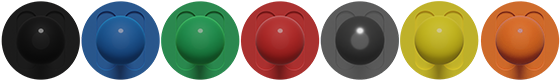
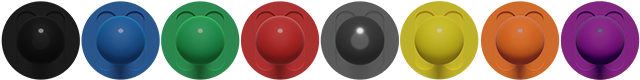
prepare 8th car

diff --git a/heat.js b/heat.js
@@ -3042,7 +3042,7 @@ var PlayerTable = /** @class */ (function () {
         this.constructorId = constructor.id;
         this.currentPlayer = this.playerId == this.game.getPlayerId();
         this.currentGear = constructor.gear;
-        var html = "\n        <div id=\"player-table-".concat(this.playerId, "\" class=\"player-table\" style=\"--player-color: #").concat(player.color, "; --personal-card-background-y: ").concat(constructor.id * 100 / 6, "%;\">\n            <div id=\"player-table-").concat(this.playerId, "-name\" class=\"name-wrapper\">").concat(player.name, "</div>\n        ");
+        var html = "\n        <div id=\"player-table-".concat(this.playerId, "\" class=\"player-table\" style=\"--player-color: #").concat(player.color, "; --personal-card-background-y: ").concat(constructor.id * 100 / 7, "%;\">\n            <div id=\"player-table-").concat(this.playerId, "-name\" class=\"name-wrapper\">").concat(player.name, "</div>\n        ");
         if (this.currentPlayer) {
             html += "\n            <div class=\"block-with-text hand-wrapper\">\n                <div class=\"block-label\">".concat(_('Your hand'), "</div>\n                <div id=\"player-table-").concat(this.playerId, "-hand\" class=\"hand cards\"></div>\n            </div>");
         }
@@ -3513,7 +3513,7 @@ var ACTION_TIMER_DURATION = 5;
 var LOCAL_STORAGE_ZOOM_KEY = 'Heat-zoom';
 var LOCAL_STORAGE_CIRCUIT_ZOOM_KEY = 'Heat-circuit-zoom';
 var LOCAL_STORAGE_JUMP_TO_FOLDED_KEY = 'Heat-jump-to-folded';
-var CONSTRUCTORS_COLORS = ['12151a', '376bbe', '26a54e', 'e52927', '979797', 'face0d', 'f37321']; // copy of gameinfos
+var CONSTRUCTORS_COLORS = ['12151a', '376bbe', '26a54e', 'e52927', '979797', 'face0d', 'f37321', '811b8f']; // copy of gameinfos
 var SYMBOLS_WITH_POSSIBLE_HALF_USAGE = ['cooldown', 'reduce', 'scrap'];
 var HAND_CARD_TYPE_FOR_EFFECT = {
     reduce: 'stress',
@@ -3710,7 +3710,7 @@ var Heat = /** @class */ (function () {
         var _a;
         if (!this.market) {
             var constructor = Object.values(this.gamedatas.constructors).find(function (constructor) { return constructor.pId == _this.getPlayerId(); });
-            document.getElementById('top').insertAdjacentHTML('afterbegin', "\n                <div id=\"market\" style=\"--personal-card-background-y: ".concat((((_a = constructor === null || constructor === void 0 ? void 0 : constructor.id) !== null && _a !== void 0 ? _a : 0) * 100) / 6, "%;\"></div>\n            "));
+            document.getElementById('top').insertAdjacentHTML('afterbegin', "\n                <div id=\"market\" style=\"--personal-card-background-y: ".concat((((_a = constructor === null || constructor === void 0 ? void 0 : constructor.id) !== null && _a !== void 0 ? _a : 0) * 100) / 7, "%;\"></div>\n            "));
             this.market = new LineStock(this.cardsManager, document.getElementById("market"));
             this.market.onSelectionChange = function (selection) { return _this.onMarketSelectionChange(selection); };
         }
@@ -3807,7 +3807,7 @@ var Heat = /** @class */ (function () {
         var _a;
         if (!this.market) {
             var constructor = Object.values(this.gamedatas.constructors).find(function (constructor) { return constructor.pId == _this.getPlayerId(); });
-            document.getElementById('top').insertAdjacentHTML('afterbegin', "\n                <div id=\"market\" style=\"--personal-card-background-y: ".concat((((_a = constructor === null || constructor === void 0 ? void 0 : constructor.id) !== null && _a !== void 0 ? _a : 0) * 100) / 6, "%;\"></div>\n            "));
+            document.getElementById('top').insertAdjacentHTML('afterbegin', "\n                <div id=\"market\" style=\"--personal-card-background-y: ".concat((((_a = constructor === null || constructor === void 0 ? void 0 : constructor.id) !== null && _a !== void 0 ? _a : 0) * 100) / 7, "%;\"></div>\n            "));
             this.market = new LineStock(this.cardsManager, document.getElementById("market"));
             this.market.onSelectionChange = function (selection) {
                 document.getElementById("actSalvage_button").classList.toggle('disabled', selection.length > args.n);
@@ -3822,7 +3822,7 @@ var Heat = /** @class */ (function () {
         var _a;
         if (!this.market) {
             var constructor = Object.values(this.gamedatas.constructors).find(function (constructor) { return constructor.pId == _this.getPlayerId(); });
-            document.getElementById('top').insertAdjacentHTML('afterbegin', "\n                <div id=\"market\" style=\"--personal-card-background-y: ".concat((((_a = constructor === null || constructor === void 0 ? void 0 : constructor.id) !== null && _a !== void 0 ? _a : 0) * 100) / 6, "%;\"></div>\n            "));
+            document.getElementById('top').insertAdjacentHTML('afterbegin', "\n                <div id=\"market\" style=\"--personal-card-background-y: ".concat((((_a = constructor === null || constructor === void 0 ? void 0 : constructor.id) !== null && _a !== void 0 ? _a : 0) * 100) / 7, "%;\"></div>\n            "));
             this.market = new LineStock(this.cardsManager, document.getElementById("market"));
         }
         // negative ids to not mess with deck pile
@@ -5435,7 +5435,7 @@ var Heat = /** @class */ (function () {
         var _this = this;
         var _a, _b;
         var constructorId = (_a = args.constructor_id) !== null && _a !== void 0 ? _a : (_b = Object.values(this.gamedatas.constructors).find(function (constructor) { return constructor.pId == _this.getPlayerId(); })) === null || _b === void 0 ? void 0 : _b.id;
-        return "<div class=\"log-card-image\" style=\"--personal-card-background-y: ".concat((constructorId * 100) / 6, "%;\" data-symbols=\"").concat(card.type < 100 ? Object.keys(card.symbols).length : 0, "\">").concat(this.cardsManager.getHtml(card), "</div>");
+        return "<div class=\"log-card-image\" style=\"--personal-card-background-y: ".concat((constructorId * 100) / 7, "%;\" data-symbols=\"").concat(card.type < 100 ? Object.keys(card.symbols).length : 0, "\">").concat(this.cardsManager.getHtml(card), "</div>");
     };
     Heat.prototype.cardsImagesHtml = function (cards, args) {
         var _this = this;

diff --git a/heat.css b/heat.css
@@ -533,7 +533,7 @@ height: 241px; */
 .personal-card .card-sides .card-side {
   border-radius: 8px;
   background-image: url("img/personal-cards.jpg");
-  background-size: auto 700%;
+  background-size: auto 800%;
 }
 .personal-card .card-sides .card-side > * {
   pointer-events: all !important;
@@ -661,7 +661,7 @@ height: 241px; */
   height: 48px;
   background: url("img/legend-icons.png");
   background-size: 100% auto;
-  background-position-y: calc(var(--color) * 100% / 6);
+  background-position-y: calc(var(--color) * 100% / 7);
   color: white;
   text-shadow: 0 0 1px black, 0 0 2px black, 0 0 3px black;
   text-align: center;
@@ -852,8 +852,8 @@ height: 241px; */
   height: 34px;
   z-index: 3;
   background: url("img/cars.png");
-  background-position-y: calc(var(--constructor-id) * 100% / 6);
-  background-size: 200% 700%;
+  background-position-y: calc(var(--constructor-id) * 100% / 7);
+  background-size: 200% 800%;
   transform: translateX(var(--x)) translateY(var(--y)) rotate(var(--r));
   transform-origin: center center;
 }
@@ -1079,7 +1079,7 @@ height: 241px; */
 .legend_avatar {
   background: url("img/legend-icons.png");
   background-size: 100% auto;
-  background-position-y: calc(var(--constructor-id) * 100% / 6);
+  background-position-y: calc(var(--constructor-id) * 100% / 7);
 }
 
 .player-table {
@@ -1134,6 +1134,9 @@ height: 241px; */
 }
 .player-table .player-board[data-color=f37321] {
   background-image: url("img/mats/player-board-f37321.jpg");
+}
+.player-table .player-board[data-color="811b8f"] {
+  background-image: url("img/mats/player-board-811b8f.jpg");
 }
 .player-table .player-board .bga-cards_deck-counter {
   --bga-cards-deck-counter-size: 40px;
@@ -1195,21 +1198,24 @@ height: 241px; */
   background-position-x: 0%;
 }
 .player-table .player-board .gear[data-color="376bbe"] {
-  background-position-x: 16.6666666667%;
+  background-position-x: 14.2857142857%;
 }
 .player-table .player-board .gear[data-color="26a54e"] {
-  background-position-x: 33.3333333333%;
+  background-position-x: 28.5714285714%;
 }
 .player-table .player-board .gear[data-color=e52927] {
-  background-position-x: 50%;
+  background-position-x: 42.8571428571%;
 }
 .player-table .player-board .gear[data-color="979797"] {
-  background-position-x: 66.6666666667%;
+  background-position-x: 57.1428571429%;
 }
 .player-table .player-board .gear[data-color=face0d] {
-  background-position-x: 83.3333333333%;
+  background-position-x: 71.4285714286%;
 }
 .player-table .player-board .gear[data-color=f37321] {
+  background-position-x: 85.7142857143%;
+}
+.player-table .player-board .gear[data-color="811b8f"] {
   background-position-x: 100%;
 }
 .player-table .player-board .gear[data-color="12151a"] {
@@ -1668,7 +1674,7 @@ html, .mode_3d #game_play_area_background {
 .constructor-avatar.legend {
   background: url("img/legend-icons.png");
   background-size: 100% auto;
-  background-position-y: calc(var(--constructor-id) * 100% / 6);
+  background-position-y: calc(var(--constructor-id) * 100% / 7);
 }
 .constructor-avatar.player {
   border-radius: 50%;

diff --git a/src/heat.ts b/src/heat.ts
@@ -15,7 +15,7 @@ const LOCAL_STORAGE_ZOOM_KEY = 'Heat-zoom';
 const LOCAL_STORAGE_CIRCUIT_ZOOM_KEY = 'Heat-circuit-zoom';
 const LOCAL_STORAGE_JUMP_TO_FOLDED_KEY = 'Heat-jump-to-folded';
 
-const CONSTRUCTORS_COLORS = ['12151a', '376bbe', '26a54e', 'e52927', '979797', 'face0d', 'f37321']; // copy of gameinfos
+const CONSTRUCTORS_COLORS = ['12151a', '376bbe', '26a54e', 'e52927', '979797', 'face0d', 'f37321', '811b8f']; // copy of gameinfos
 
 const SYMBOLS_WITH_POSSIBLE_HALF_USAGE = ['cooldown', 'reduce', 'scrap'];
 const HAND_CARD_TYPE_FOR_EFFECT = {
@@ -272,7 +272,7 @@ class Heat implements HeatGame {
       document.getElementById('top').insertAdjacentHTML(
         'afterbegin',
         `
-                <div id="market" style="--personal-card-background-y: ${((constructor?.id ?? 0) * 100) / 6}%;"></div>
+                <div id="market" style="--personal-card-background-y: ${((constructor?.id ?? 0) * 100) / 7}%;"></div>
             `
       );
       this.market = new LineStock<Card>(this.cardsManager, document.getElementById(`market`));
@@ -392,7 +392,7 @@ class Heat implements HeatGame {
       document.getElementById('top').insertAdjacentHTML(
         'afterbegin',
         `
-                <div id="market" style="--personal-card-background-y: ${((constructor?.id ?? 0) * 100) / 6}%;"></div>
+                <div id="market" style="--personal-card-background-y: ${((constructor?.id ?? 0) * 100) / 7}%;"></div>
             `
       );
       this.market = new LineStock<Card>(this.cardsManager, document.getElementById(`market`));
@@ -412,7 +412,7 @@ class Heat implements HeatGame {
       document.getElementById('top').insertAdjacentHTML(
         'afterbegin',
         `
-                <div id="market" style="--personal-card-background-y: ${((constructor?.id ?? 0) * 100) / 6}%;"></div>
+                <div id="market" style="--personal-card-background-y: ${((constructor?.id ?? 0) * 100) / 7}%;"></div>
             `
       );
       this.market = new LineStock<Card>(this.cardsManager, document.getElementById(`market`));
@@ -2367,7 +2367,7 @@ class Heat implements HeatGame {
     const constructorId =
       args.constructor_id ??
       Object.values(this.gamedatas.constructors).find((constructor) => constructor.pId == this.getPlayerId())?.id;
-    return `<div class="log-card-image" style="--personal-card-background-y: ${(constructorId * 100) / 6}%;" data-symbols="${card.type < 100 ? Object.keys(card.symbols).length : 0}">${this.cardsManager.getHtml(card)}</div>`;
+    return `<div class="log-card-image" style="--personal-card-background-y: ${(constructorId * 100) / 7}%;" data-symbols="${card.type < 100 ? Object.keys(card.symbols).length : 0}">${this.cardsManager.getHtml(card)}</div>`;
   }
 
   private cardsImagesHtml(cards: Card[], args: any) {

diff --git a/src/heat.scss b/src/heat.scss
@@ -1,4 +1,4 @@
-$playerColors: '12151a', '376bbe', '26a54e', 'e52927', '979797', 'face0d', 'f37321';
+$playerColors: '12151a', '376bbe', '26a54e', 'e52927', '979797', 'face0d', 'f37321', '811b8f';
 
 @import '../node_modules/bga-help/bga-help';
 @import '../node_modules/bga-zoom/bga-zoom';
@@ -182,7 +182,7 @@ html, .mode_3d #game_play_area_background {
   &.legend {  
     background: url('img/legend-icons.png');
     background-size: 100% auto;
-    background-position-y: calc(var(--constructor-id) * 100% / 6);
+    background-position-y: calc(var(--constructor-id) * 100% / 7);
   }
 
   &.player {

diff --git a/src/player-table.ts b/src/player-table.ts
@@ -73,7 +73,7 @@ class PlayerTable {
         this.currentGear = constructor.gear;
 
         let html = `
-        <div id="player-table-${this.playerId}" class="player-table" style="--player-color: #${player.color}; --personal-card-background-y: ${constructor.id * 100 / 6}%;">
+        <div id="player-table-${this.playerId}" class="player-table" style="--player-color: #${player.color}; --personal-card-background-y: ${constructor.id * 100 / 7}%;">
             <div id="player-table-${this.playerId}-name" class="name-wrapper">${player.name}</div>
         `;
         if (this.currentPlayer) {

diff --git a/src/_legend-cards.scss b/src/_legend-cards.scss
@@ -34,7 +34,7 @@
                     height: 48px;
                     background: url('img/legend-icons.png');
                     background-size: 100% auto;
-                    background-position-y: calc(var(--color) * 100% / 6);
+                    background-position-y: calc(var(--color) * 100% / 7);
                     color: white;
                     text-shadow: 0 0 1px black, 0 0 2px black, 0 0 3px black;
                     text-align: center;    

diff --git a/src/_table-center.scss b/src/_table-center.scss
@@ -53,8 +53,8 @@
   height: 34px;
   z-index: 3;
   background: url("img/cars.png");
-  background-position-y: calc(var(--constructor-id) * 100% / 6);
-  background-size: 200% 700%;
+  background-position-y: calc(var(--constructor-id) * 100% / 7);
+  background-size: 200% 800%;
   transform: translateX(var(--x)) translateY(var(--y)) rotate(var(--r));
   transform-origin: center center;
 

diff --git a/src/_cards.scss b/src/_cards.scss
@@ -15,7 +15,7 @@
         .card-side {
             border-radius: 8px;
             background-image: url('img/personal-cards.jpg');  
-            background-size: auto 700%; 
+            background-size: auto 800%; 
 
             &>* {
                 pointer-events: all !important;

diff --git a/src/_player-table.scss b/src/_player-table.scss
@@ -100,7 +100,7 @@
       @each $playerColor in $playerColors {
         $i: index($playerColors, $playerColor) - 1;
         &[data-color="#{$playerColor}"] { 
-          background-position-x: #{$i * 100% / 6};
+          background-position-x: #{$i * 100% / 7};
         }
       }
   

diff --git a/src/_playerboards.scss b/src/_playerboards.scss
@@ -67,5 +67,5 @@
 .legend_avatar {
   background: url('img/legend-icons.png');
   background-size: 100% auto;
-  background-position-y: calc(var(--constructor-id) * 100% / 6);
+  background-position-y: calc(var(--constructor-id) * 100% / 7);
 }

diff --git a/gameinfos.inc.php b/gameinfos.inc.php
@@ -27,7 +27,7 @@ $gameinfos = [
   'bgg_id' => 366013,
 
   // Players configuration that can be played (ex: 2 to 4 players)
-  'players' => [1, 2, 3, 4, 5, 6, 7],
+  'players' => [1, 2, 3, 4, 5, 6, 7, 8],
 
   // Suggest players to play with this number of players. Must be null if there is no such advice, or if there is only one possible player configuration.
   // NB: the automatic lobby will try first the lowest number of players if this is not specified. So you _have to_ specify this parameter if the lowest player number is not compatible with the default options.
@@ -76,7 +76,7 @@ $gameinfos = [
   'language_dependency' => false,
 
   // Colors attributed to players
-'player_colors' => ['12151a', '376bbe', '26a54e', 'e52927', '979797', 'face0d', 'f37321'],
+'player_colors' => ['12151a', '376bbe', '26a54e', 'e52927', '979797', 'face0d', 'f37321', '811b8f'],
 
   // Favorite colors support : if set to "true", support attribution of favorite colors based on player's preferences (see reattributeColorsBasedOnPreferences PHP method)
   // NB: this parameter is used only to flag games supporting this feature; you must use (or not use) reattributeColorsBasedOnPreferences PHP method to actually enable or disable the feature.

diff --git a/gameoptions.inc.php b/gameoptions.inc.php
@@ -139,6 +139,11 @@ $game_options = [
         'tmdisplay' => clienttranslate('[legends: fill to 7]'),
         'description' => clienttranslate('Add legends up to 7 cars in total'),
       ],
+      8 => [
+        'name' => clienttranslate('Fill to 8 cars'),
+        'tmdisplay' => clienttranslate('[legends: fill to 8]'),
+        'description' => clienttranslate('Add legends up to 8 cars in total'),
+      ],
     ],
     'default' => 6,
     // 'displaycondition' => [
@@ -539,7 +544,7 @@ $game_preferences = [
   OPTION_CONFIRM_HEAT_COST => [
     'name' => totranslate('Confirmation when heat cost increases'),
     'needReload' => false,
-    'default' => OPTION_CONFIRM_HEAT_COST,
+    'default' => OPTION_CONFIRM_HEAT_COST_ENABLED,
     'values' => [
       OPTION_CONFIRM_HEAT_COST_ENABLED => ['name' => totranslate('Enabled')],
       OPTION_CONFIRM_HEAT_COST_DISABLED => ['name' => totranslate('Disabled')],
